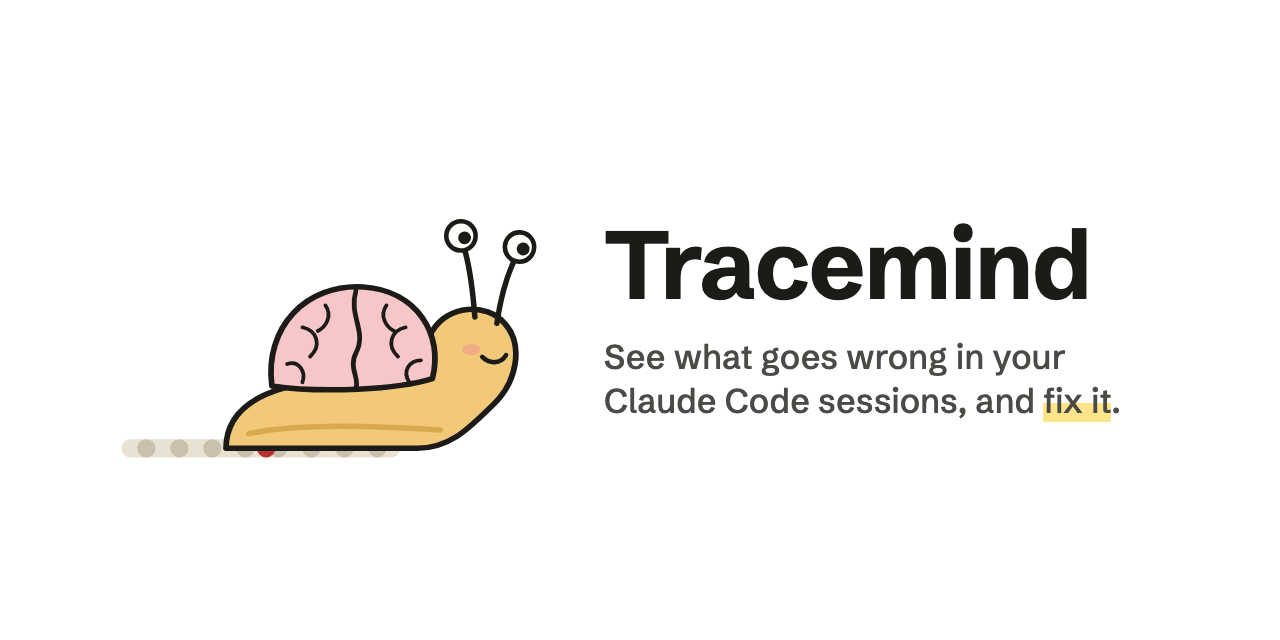
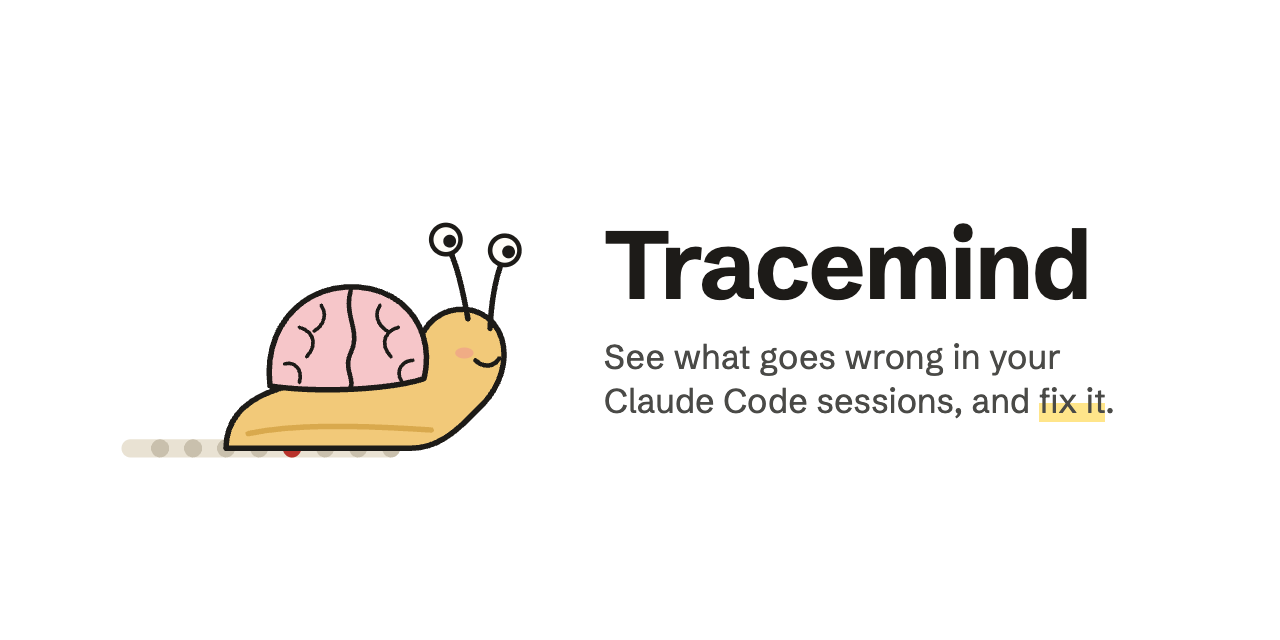
pnpm record: re-record the README's tour GIF and the social preview (#5)
scripts/record.mjs fills a throwaway home with the demo sessions, runs the built UI on a spare
port, drives the installed Google Chrome through playwright-core, and writes docs/tour.gif (only
the pixels that changed in each frame, so it stays under 1 MB) and docs/social-preview.png, which
it checks sits inside GitHub's 80px border. The card's HTML is scripts/social.html.

Changed region(s): [[0.1875, 0.3438, 0.4375, 0.6875], [0.5, 0.5312, 0.875, 0.6562], [0.0938, 0.6875, 0.3438, 0.7188]]

diff --git a/scripts/social.html b/scripts/social.html
@@ -1,0 +1,29 @@
+<!doctype html>
+<html>
+<head>
+<meta charset="utf-8">
+<style>
+  /* GitHub's repo card: 1280×640, with everything that matters inside an 80px border. */
+  @font-face {
+    font-family: "Schibsted Grotesk";
+    src: url("../node_modules/@fontsource-variable/schibsted-grotesk/files/schibsted-grotesk-latin-wght-normal.woff2") format("woff2");
+    font-weight: 400 900;
+  }
+  body { margin: 0; width: 1280px; height: 640px; background: #fff; font-family: "Schibsted Grotesk", system-ui, sans-serif; color: #1d1b18; }
+  .safe { position: absolute; left: 80px; top: 80px; width: 1120px; height: 480px; display: flex; align-items: center; justify-content: center; gap: 48px; }
+  .slug { width: 440px; display: block; }
+  .name { font-size: 96px; font-weight: 700; letter-spacing: -0.02em; line-height: 1; }
+  .line { font-size: 34px; line-height: 1.3; color: #4a4a47; margin-top: 22px; max-width: 560px; }
+  .mark { background: linear-gradient(transparent 55%, #ffe58a 55%); }
+</style>
+</head>
+<body>
+<div class="safe">
+  <img class="slug" src="../web/public/slug.svg" alt="">
+  <div>
+    <div class="name">Tracemind</div>
+    <div class="line">See what goes wrong in your Claude Code sessions, and <span class="mark">fix it</span>.</div>
+  </div>
+</div>
+</body>
+</html>

diff --git a/CONTRIBUTING.md b/CONTRIBUTING.md
@@ -19,6 +19,10 @@ TRACEMIND_HOME=/tmp/tm-demo node scripts/demo.mjs
 TRACEMIND_HOME=/tmp/tm-demo node dist/src/cli/index.js ui --port 4560
 ```
 
+After a change to how the UI looks, re-record the README's pictures from that same made-up data.
+`pnpm record` builds, then writes `docs/tour.gif` and `docs/social-preview.png` with your installed
+Google Chrome. A new social preview is uploaded by hand in Settings → General → Social preview.
+
 ## Before you open a pull request
 
 - Add or change a test for what you changed (`test/`). CI runs typecheck, tests and build on
@@ -26,4 +30,4 @@ TRACEMIND_HOME=/tmp/tm-demo node dist/src/cli/index.js ui --port 4560
 - Keep numbers honest: every count the UI shows should match a recount from the raw transcripts.
 - How the UI looks and why is in [DESIGN.md](DESIGN.md); where things live is in the
   [guide](docs/guide.md#develop).
-- Never commit real session data. Screenshots use `scripts/demo.mjs`.
+- Never commit real session data. Screenshots use `scripts/demo.mjs`, through `pnpm record`.
